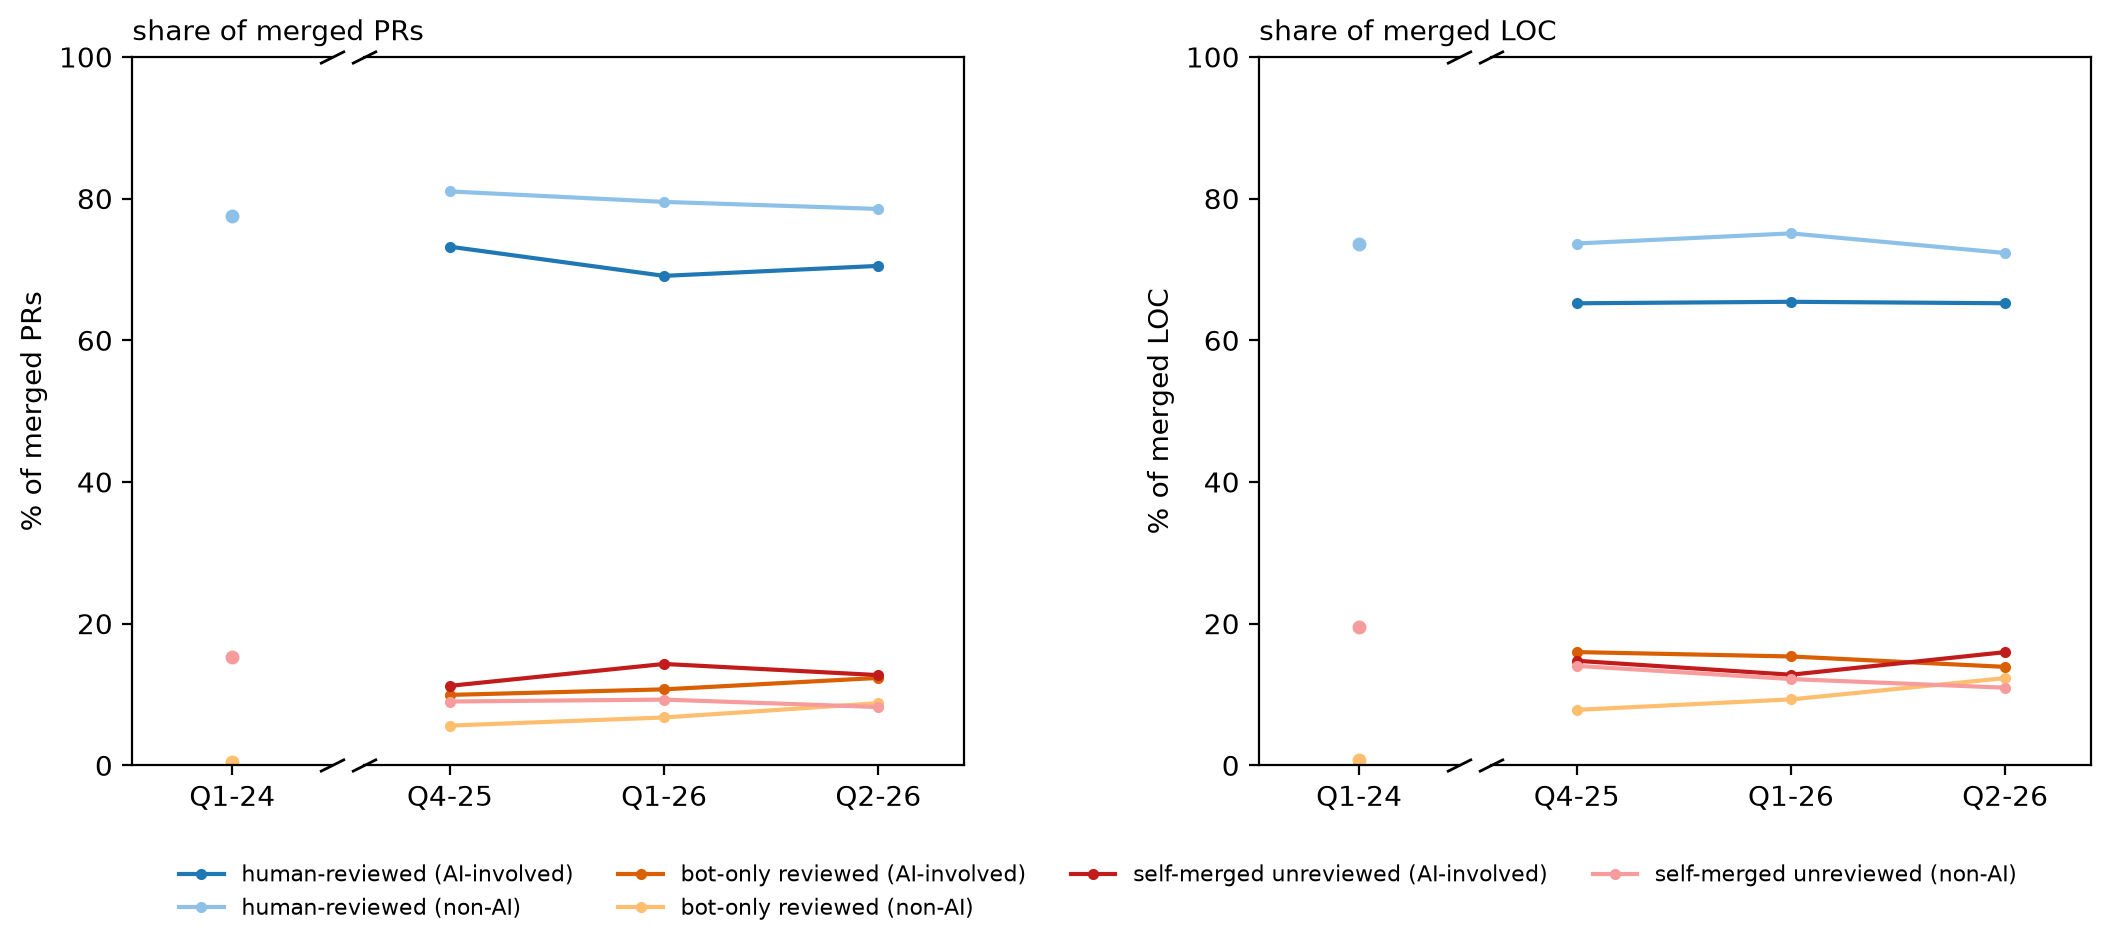
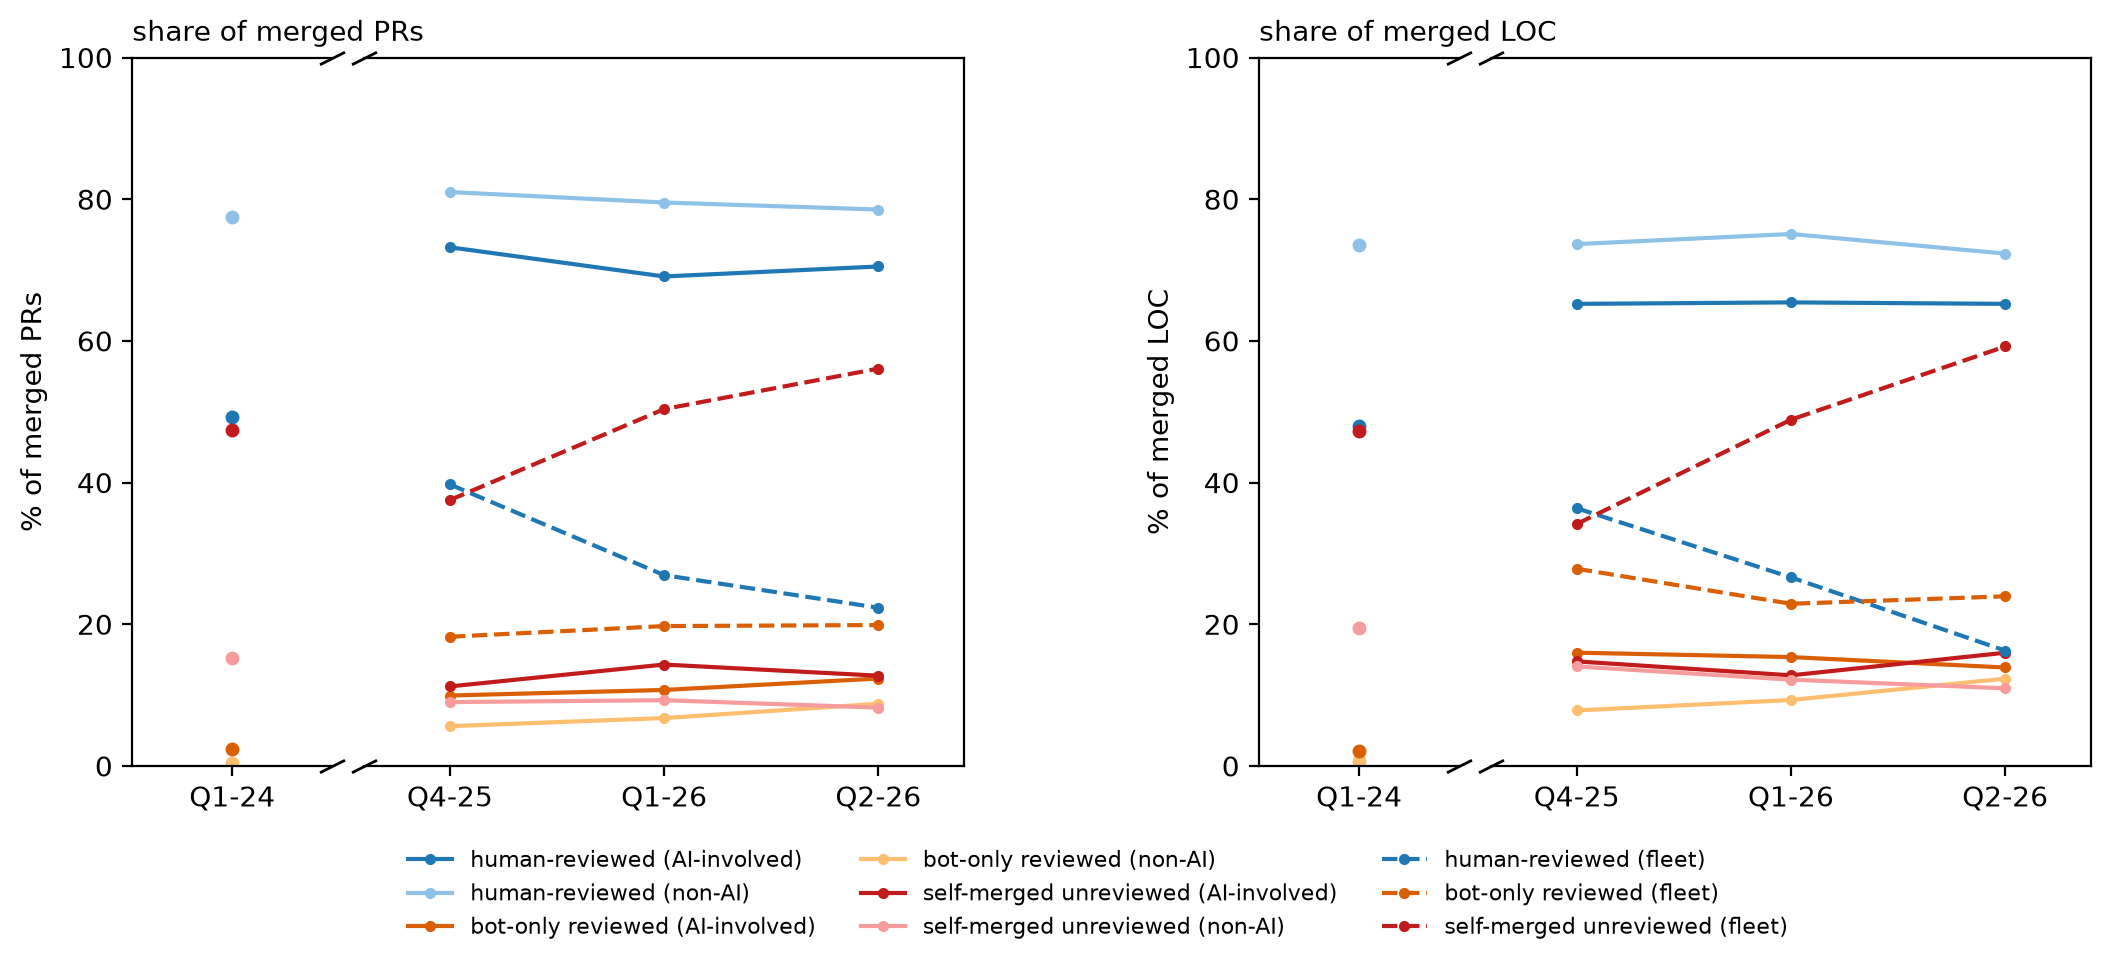
review_mix_by_ai: fleet-operator PRs as a third slice
Fleet joins the AI variant as dashed series in each channel's dark hue —
unambiguous because the ai slice is absent at Q1-2024, so a dark point
on the left panel can only be fleet, and dash-vs-solid separates them on
the right. The role variant is untouched (byte-identical CSV; its
re-rendered PNG restored rather than churned).

plot_all unpacks f6.VARIANTS positionally, so the new fleet flag is
passed through at both call sites — without that it would silently
default off there and the batch would render a different chart than the
standalone script.

Fleet channel shares now visible (PR share, Q1-24 -> Q2-26):
humanRev 49 -> 22, selfUnrev 47 -> 56, botOnly 2.5 -> 20.

diff --git a/scripts/plot_fig6_review.py b/scripts/plot_fig6_review.py
@@ -2,13 +2,14 @@
 substitution — BOTH variants (formerly the plot_fig6_review{,_ai}.py
 twin files; merged per the 2026-07-22 architecture review, candidate 2).
 
-Two panels (share of merged PRs; share of merged LOC), each with six
-series: {human-reviewed, bot-only-reviewed, self-merged-unreviewed} x a
+Two panels (share of merged PRs; share of merged LOC), each with the
+{human-reviewed, bot-only-reviewed, self-merged-unreviewed} channels x a
 dark/light slice pair — core vs external contributors, and AI-involved
-vs non-AI PRs. The AI slice is absent at the Q1-2024 baseline by
-construction (no detectable channel existed). Merged outcomes are
-mature-gated (Q2-2026 reflects PRs whose w8 window closed; finalizes
-with AS_OF re-pulls). Broken x-axis: Q1-2024 | Q4-2025..Q2-2026.
+vs non-AI PRs. The AI variant adds FLEET-operator PRs as a third slice
+(dashed, in each channel's dark hue; the ai/nonai slices exclude fleet
+authors). The AI slice is absent at the Q1-2024 baseline by construction
+(no detectable channel existed). Merged outcomes are mature-gated.
+Broken x-axis: Q1-2024 | Q4-2025..Q2-2026.
 
 Data:    artifacts/data/review_mix.csv,
          artifacts/data/review_mix_by_ai.csv
@@ -25,20 +26,37 @@ from pipeline.studies.productivity import PERIODS, review_mix
 
 VARIANTS = [
     ("role", ("ins", "core"), ("ext", "external"),
-     "artifacts/review_mix.png"),
+     "artifacts/review_mix.png", False),
     ("ai", ("ai", "AI-involved"), ("nonai", "non-AI"),
-     "artifacts/review_mix_by_ai.png"),
+     "artifacts/review_mix_by_ai.png", True),
 ]
 
 UNITS = [("pr", "share of merged PRs", "% of merged PRs"),
          ("loc", "share of merged LOC", "% of merged LOC")]
 
 
-def collect(name, by, dark, light) -> Table:
-    rows = review_mix(by)
+def series_for(dark, light, fleet):
+    """paired_series6 plus, for the AI variant, a dashed fleet series per
+    channel in that channel's dark hue: at Q1-2024 the ai slice is absent,
+    so the shared hue is unambiguous on the left panel, and dash-vs-solid
+    separates them on the right."""
+    out = [(ch, sl, color, "-", label)
+           for ch, sl, color, label in paired_series6(dark, light)]
+    if fleet:
+        seen = {}
+        for ch, sl, color, _ls, _label in out:
+            seen.setdefault(ch, color)          # the dark hue comes first
+        out += [(ch, "fleet", color, "--",
+                 f"{label.split(' (')[0]} (fleet)")
+                for (ch, _sl, color, _ls, label) in out[::2]]
+    return out
+
+
+def collect(name, by, dark, light, fleet=False) -> Table:
+    rows = review_mix(by, fleet_slice=True) if fleet else review_mix(by)
     t = Table(name)
     for unit, title, _ylabel in UNITS:
-        for ch, sl, _color, label in paired_series6(dark, light):
+        for ch, sl, _color, _ls, label in series_for(dark, light, fleet):
             t.add_series(unit, f"{ch}_{sl}",
                          [cell(rows, p, sl, f"{ch}_{unit}", scale=100)
                           for p in PERIODS],
@@ -47,31 +65,33 @@ def collect(name, by, dark, light) -> Table:
     return t
 
 
-def render(t: Table, dark, light):
+def render(t: Table, dark, light, fleet=False):
     fig = plt.figure(figsize=(11, 4.6))
     subfigs = fig.subfigures(1, 2, wspace=0.05)
     for sf, (unit, _title, ylabel) in zip(subfigs.flat, UNITS):
         axl, axr = broken_pair(sf, t.label_of(unit))
-        for ch, sl, color, label in paired_series6(dark, light):
+        for ch, sl, color, ls, label in series_for(dark, light, fleet):
             quarter_series(axl, axr, t.values(unit, f"{ch}_{sl}"),
-                           color, label)
+                           color, label, ls=ls)
         # Q2-2026 is PARTIAL: only PRs whose w8 window closed by the
         # AS_OF are classified (early-quarter weighted until the re-pull)
         shade_q2_partial(axr)
         axl.set_ylim(0, 100)
         axl.set_ylabel(ylabel)
     handles, labels = axr.get_legend_handles_labels()
-    fig.legend(handles, labels, loc="lower center", ncol=4, fontsize=8,
-               frameon=False, bbox_to_anchor=(0.5, -0.08))
+    fig.legend(handles, labels, loc="lower center",
+               ncol=3 if fleet else 4, fontsize=8,
+               frameon=False, bbox_to_anchor=(0.5, -0.1))
     return fig
 
 
 def main() -> None:
-    for by, dark, light, out in VARIANTS:
+    for by, dark, light, out, fleet in VARIANTS:
         name = out.split("/")[-1].removesuffix(".png")
-        figure_main(lambda n=name, b=by, d=dark, li=light:
-                    collect(n, b, d, li),
-                    lambda t, d=dark, li=light: render(t, d, li), out)
+        figure_main(lambda n=name, b=by, d=dark, li=light, fl=fleet:
+                    collect(n, b, d, li, fl),
+                    lambda t, d=dark, li=light, fl=fleet:
+                    render(t, d, li, fl), out)
 
 
 if __name__ == "__main__":

diff --git a/scripts/plot_all.py b/scripts/plot_all.py
@@ -48,11 +48,11 @@ FIGURES = [
     ("artifacts/core_loc.png", paper.collect_core, paper.render_core),
     ("artifacts/fleet_vs_nonadopters.png", f5.collect, f5.render),
     ("artifacts/review_mix.png",
-     lambda: f6.collect("review_mix", ROLE[0], ROLE[1], ROLE[2]),
-     lambda t: f6.render(t, ROLE[1], ROLE[2])),
+     lambda: f6.collect("review_mix", ROLE[0], ROLE[1], ROLE[2], ROLE[4]),
+     lambda t: f6.render(t, ROLE[1], ROLE[2], ROLE[4])),
     ("artifacts/review_mix_by_ai.png",
-     lambda: f6.collect("review_mix_by_ai", AI[0], AI[1], AI[2]),
-     lambda t: f6.render(t, AI[1], AI[2])),
+     lambda: f6.collect("review_mix_by_ai", AI[0], AI[1], AI[2], AI[4]),
+     lambda t: f6.render(t, AI[1], AI[2], AI[4])),
     ("artifacts/attention_by_ai.png", f7.collect, f7.render),
     ("artifacts/responsiveness_by_ai.png", f8.collect, f8.render),
     ("artifacts/adoption_cohorts.png", a1.collect, a1.render),
